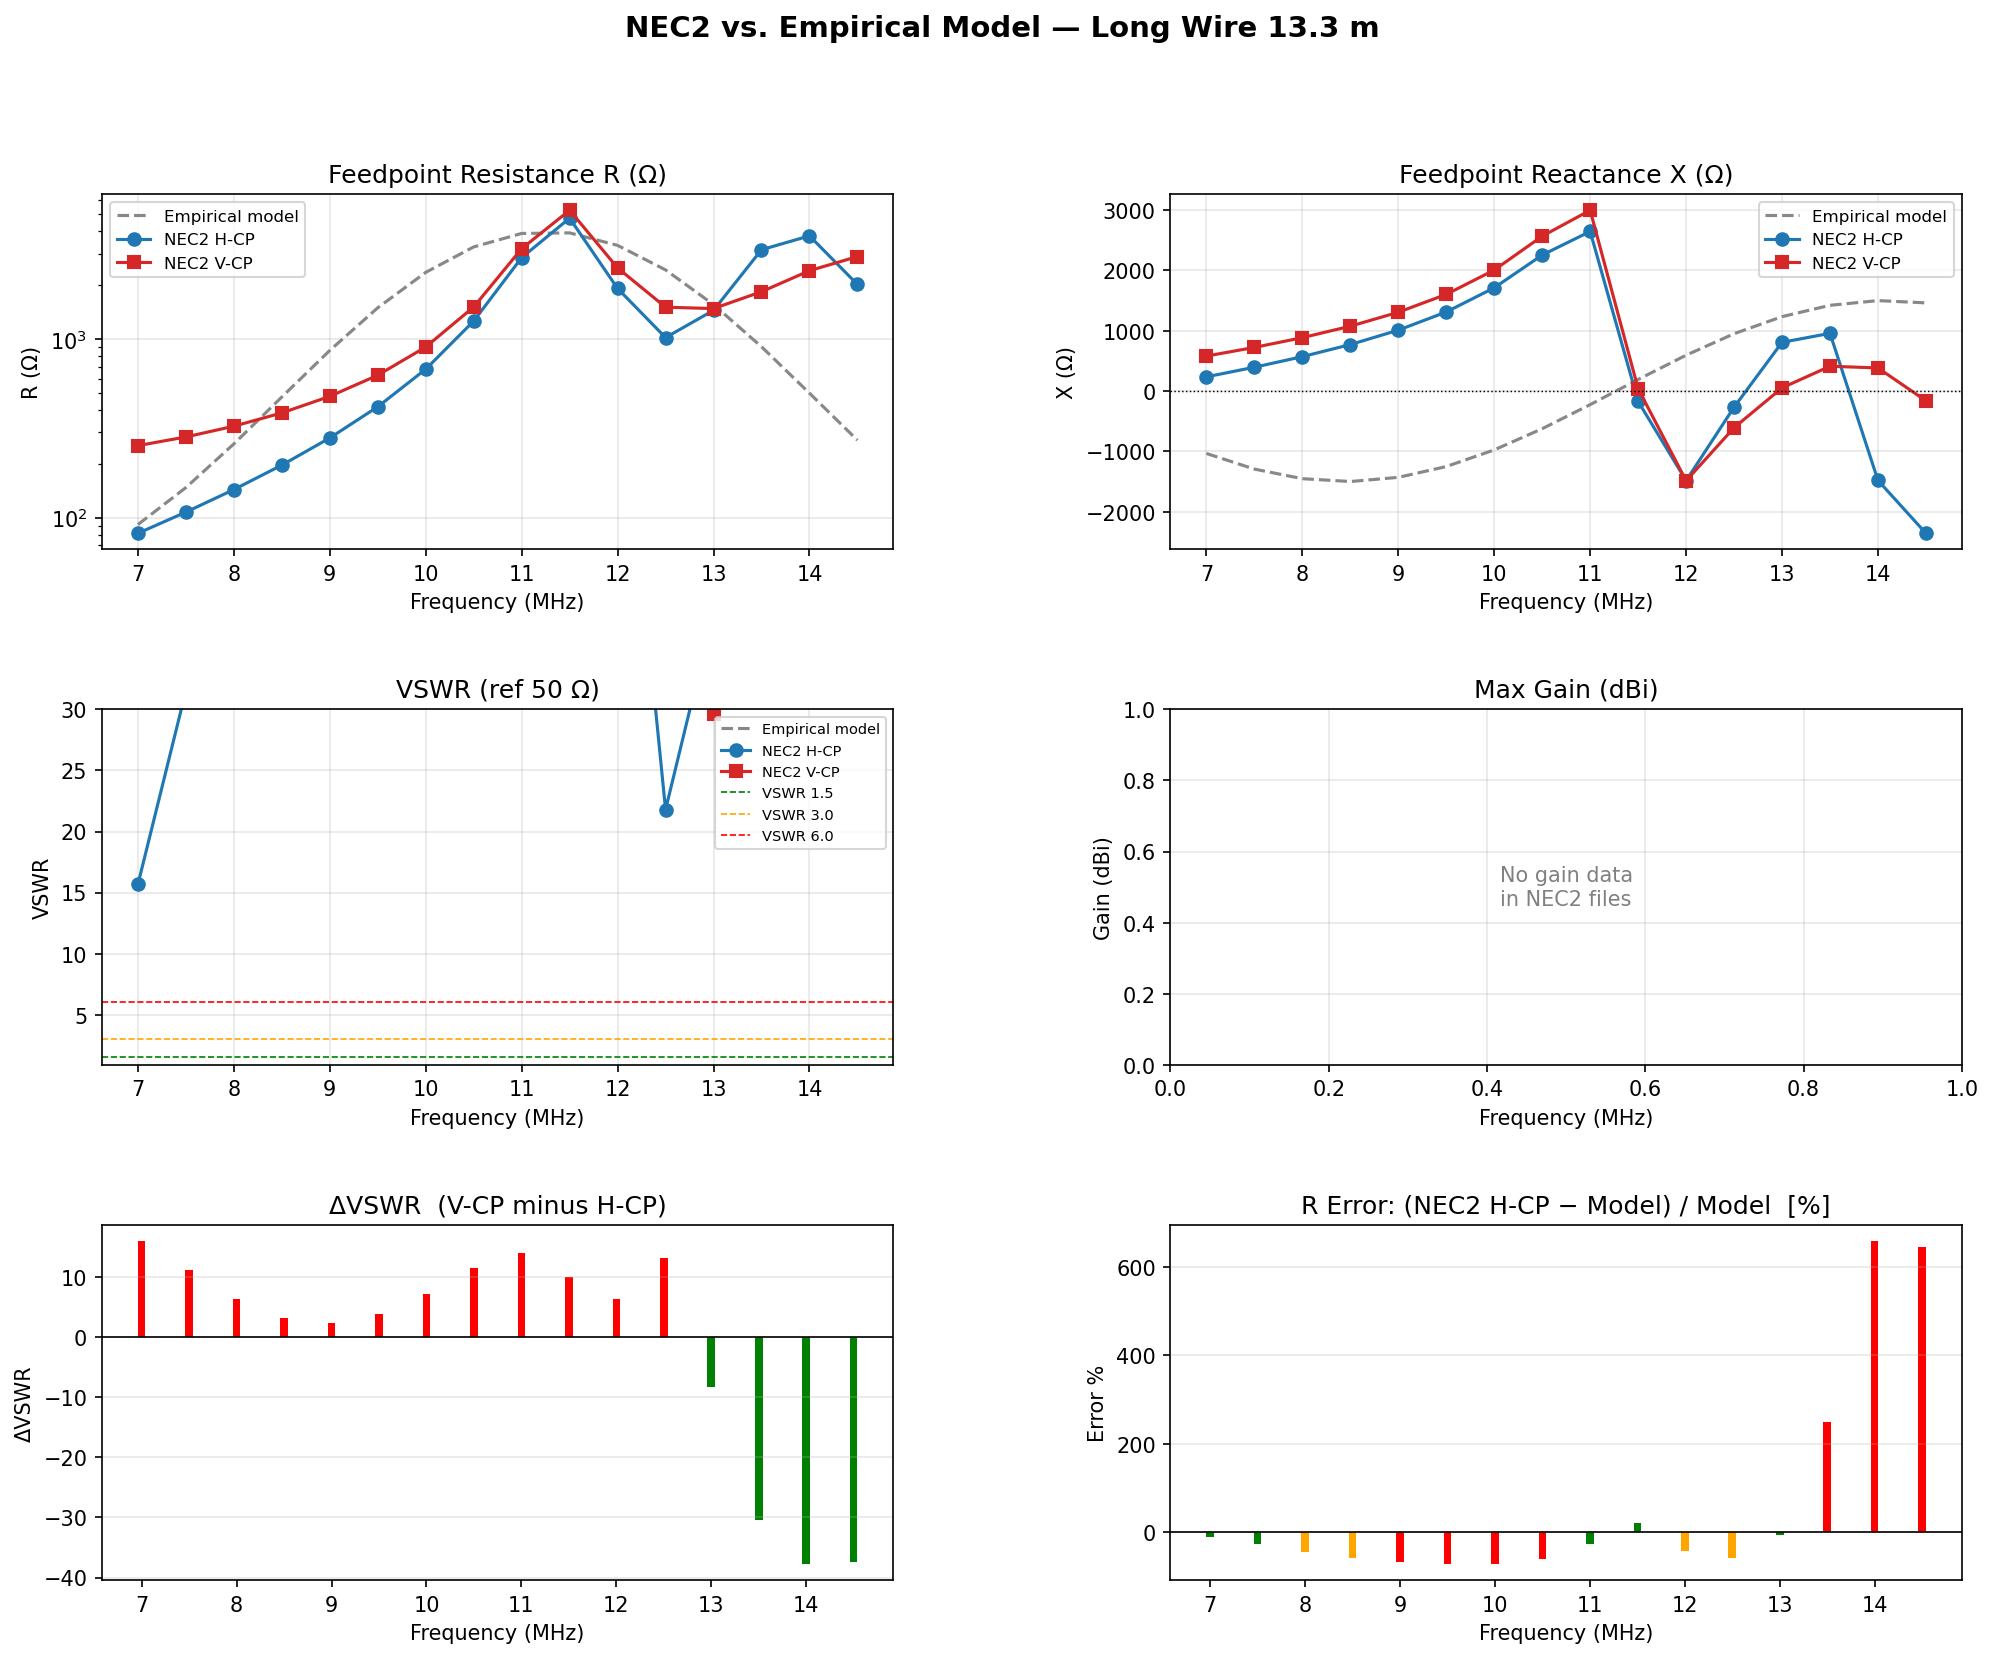
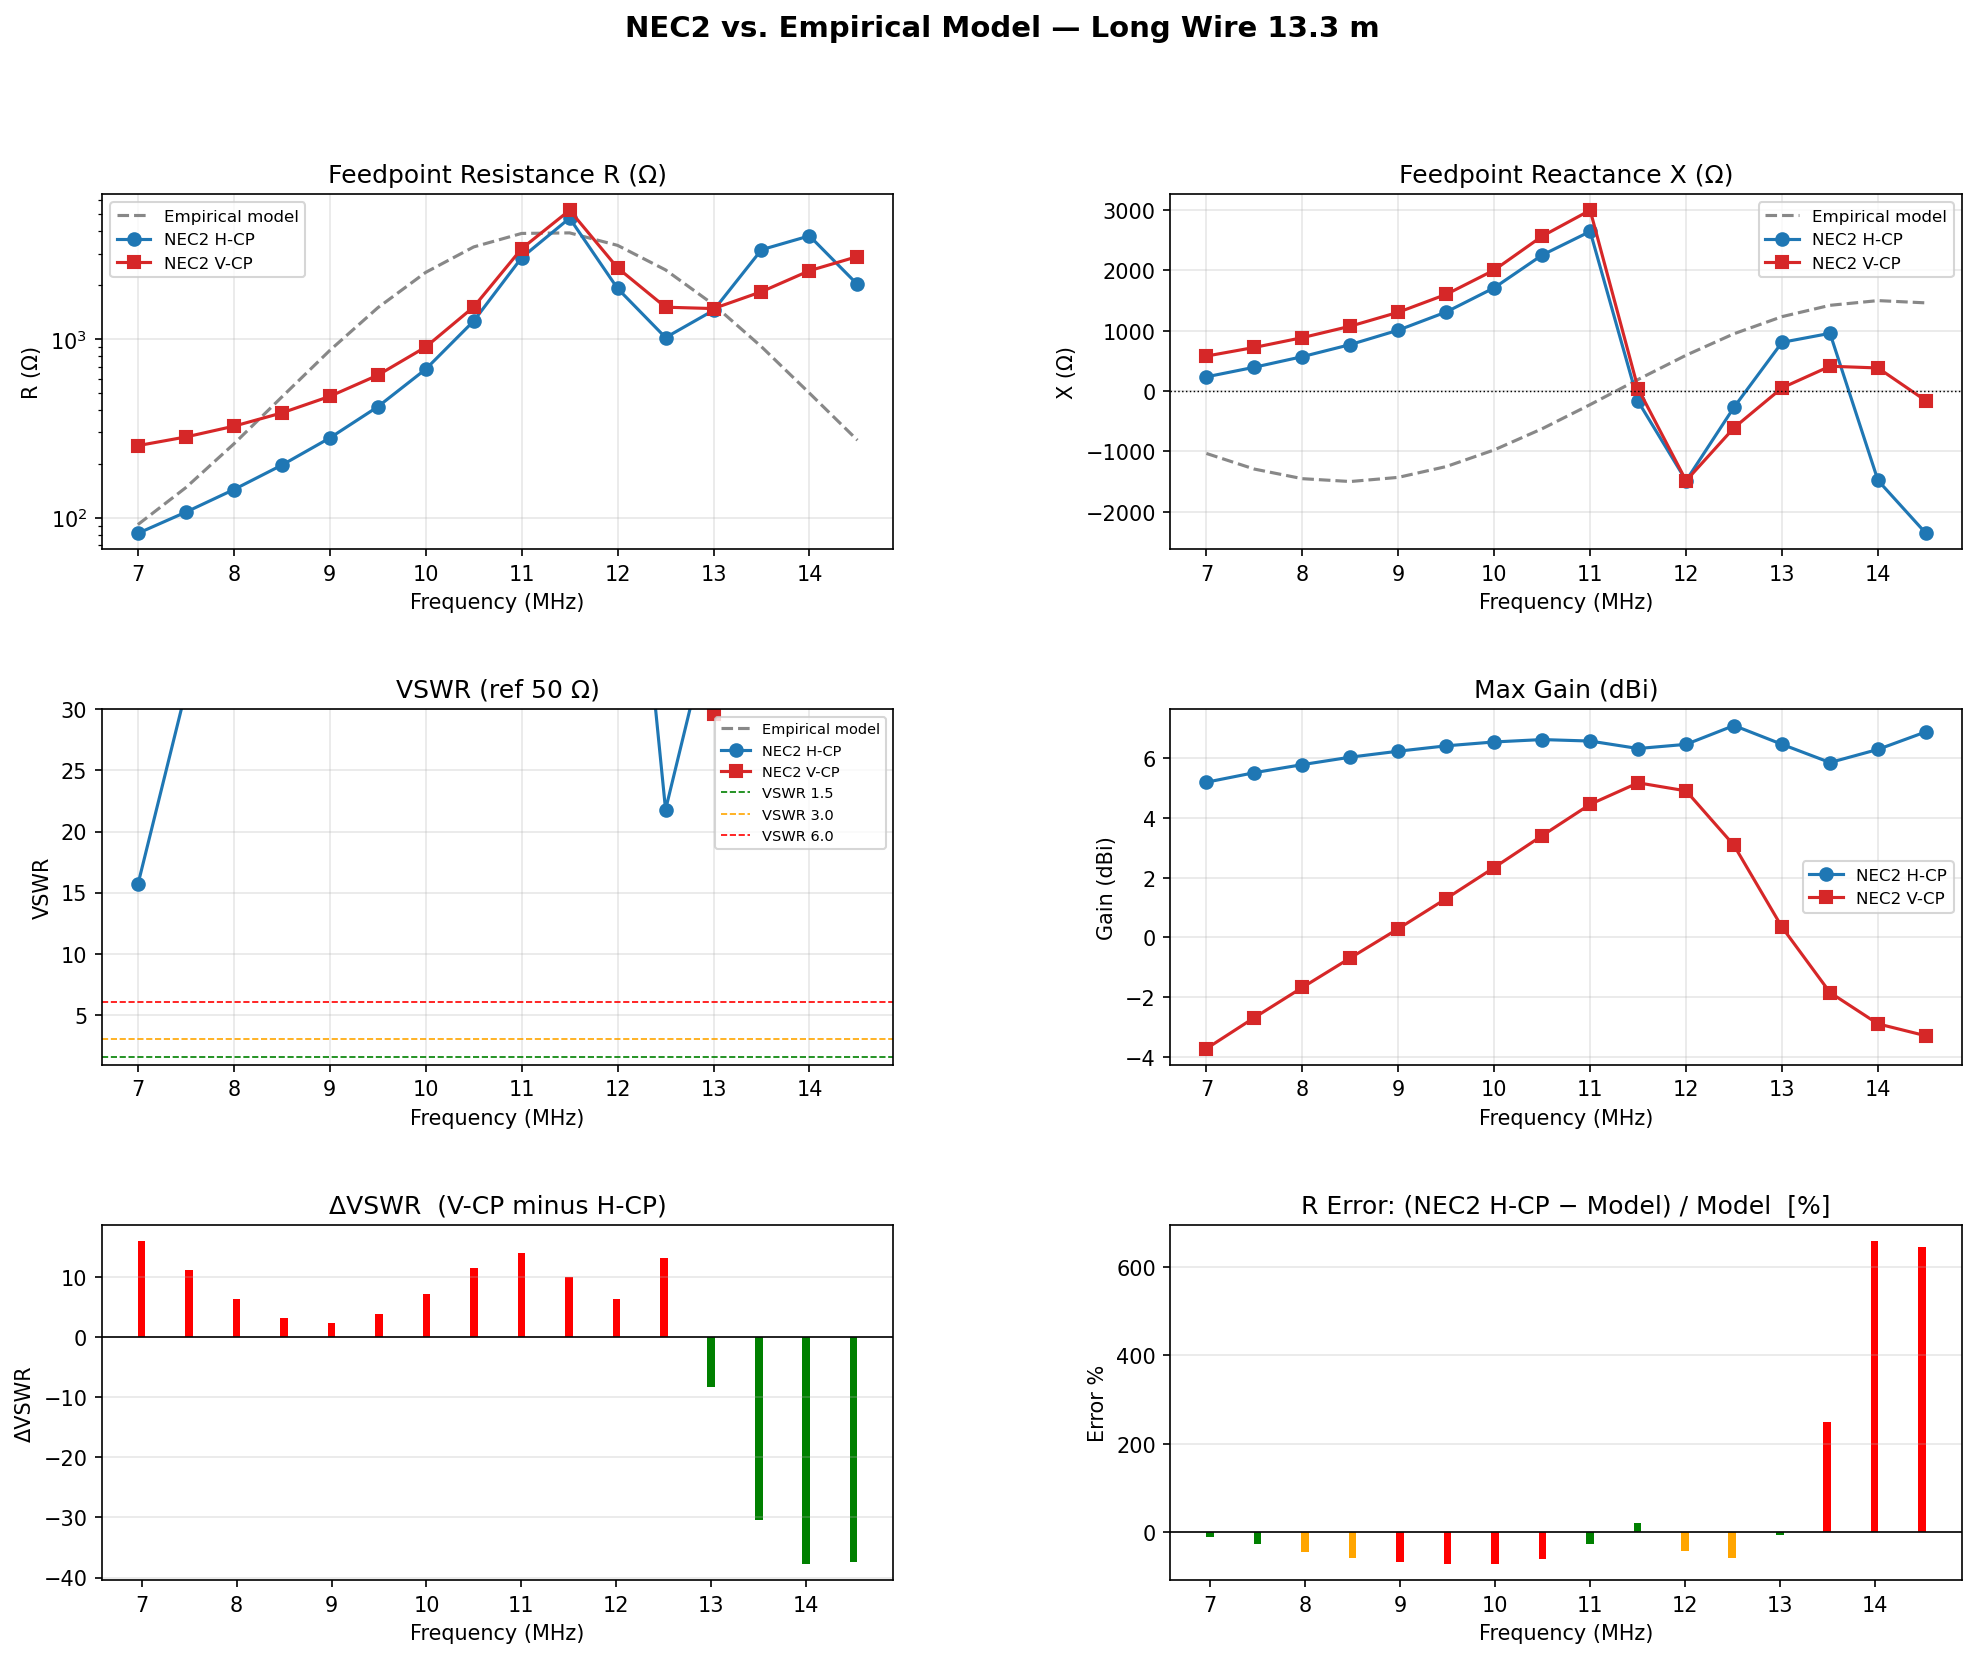
Correct simulation

diff --git a/nec2_vs_calc_analyzer.py b/nec2_vs_calc_analyzer.py
@@ -306,13 +306,24 @@ def parse_nec2_output(filepath: str, debug: bool = False) -> NEC2Run:
     FIX #8: Warns if no RP card was found in the .nec deck.
     """
     run = NEC2Run(filepath=filepath)
-    run._has_rp_card = False  # set True by _parse_cp_from_nec_deck if RP found
+    run._has_rp_card = False  # updated below once .out text is loaded
 
     if not os.path.isfile(filepath):
         raise FileNotFoundError(f"NEC2 file not found: {filepath}")
 
     with open(filepath, 'r', errors='replace') as fh:
         text = fh.read()
+
+    # Detect RP card from the .out file itself (reproduced as "DATA CARD No: N RP …").
+    # _parse_cp_from_nec_deck also sets this flag when a .nec sibling exists, but
+    # the .out file is always present so it is the primary detection path.
+    # Two patterns cover all nec2c output styles:
+    #   "  DATA CARD No:   6 RP   0 …"  (standard nec2c echo)
+    #   "RP 0 …"                         (bare card, some front-ends)
+    run._has_rp_card = bool(
+        re.search(r'DATA\s+CARD[^\n]*\bRP\b', text, re.IGNORECASE) or
+        re.search(r'^\s*RP\b',                text, re.IGNORECASE | re.MULTILINE)
+    )
 
     # ── FIX #1: diagnostic dump ─────────────────────────────────────────────
     if debug: